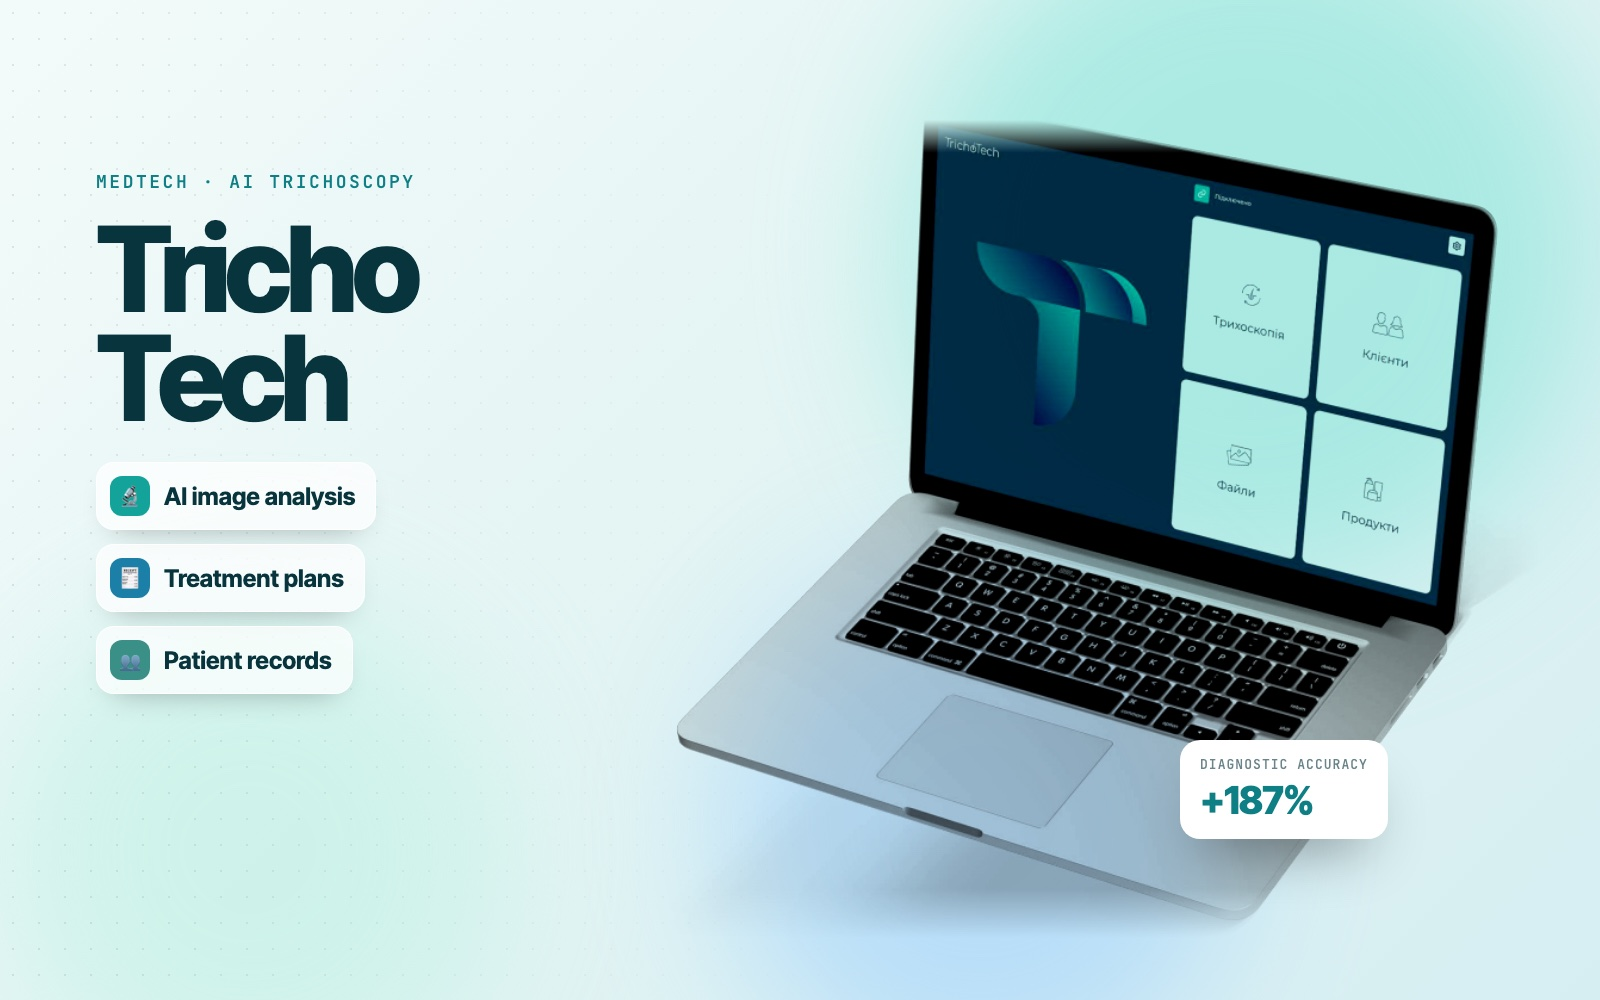
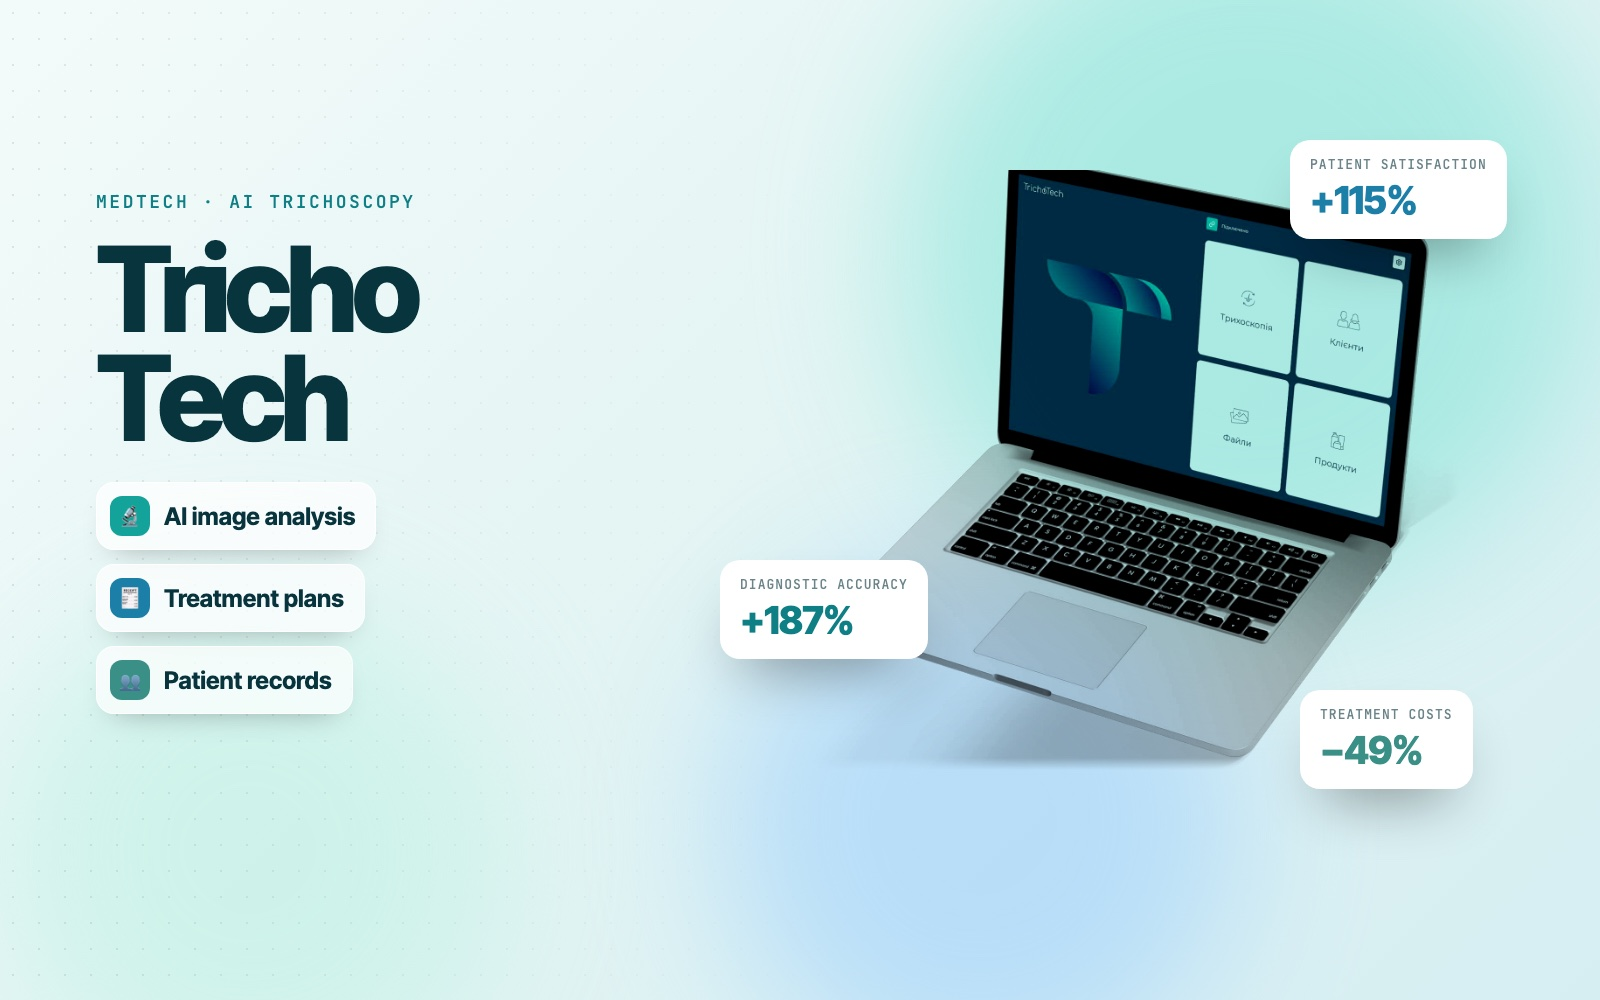
Home: 'How it works' steps instead of duplicate layers, contact/form copy for new model, localized price units; VIP 50 seats + free partnership note; case covers with full laptops and metrics

Changed region(s): [[0.4062, 0.124, 0.9688, 0.93], [0.0625, 0.155, 0.2812, 0.744]]

diff --git a/src/i18n/ua.ts b/src/i18n/ua.ts
@@ -264,7 +264,7 @@ const ua: Dict = {
   ],
   "stepZero": "Крок нуль",
   "sessTitle": "Стратегічна сесія перед стартом",
-  "sessSub": "Перед початком роботи ми аналізуємо вашу ситуацію та формуємо стратегію вашого зростання.",
+  "sessSub": "Vax, наш ШІ-менеджер, відповідає просто тут. Менеджер долучиться до дзвінка й важливих рішень — лише якщо ви захочете.",
   "sessItems": [
     "Визначаємо реальні точки зростання",
     "Формуємо початкову продуктову лінійку",
@@ -272,7 +272,7 @@ const ua: Dict = {
     "Прописуємо можливі сценарії масштабування",
     "Узгоджуємо оптимальний формат співпраці"
   ],
-  "sessNote": "Стратегічна сесія входить у кожен тариф.",
+  "sessNote": "Безкоштовний розбір і план зростання — у кожному запуску.",
   "tiersTitle": "Запускаємо один раз. Далі ведемо все за вас.",
   "tiersSub": "За кілька днів збираємо систему — сайт, ШІ-менеджера і пульт власника, — а потім щомісяця тримаємо її в роботі, відповідаємо клієнтам і ростимо. Ви займаєтесь бізнесом, решта — наше.",
   "labels": {
@@ -411,7 +411,7 @@ const ua: Dict = {
     "title": "Потрібна окрема послуга замість повного тарифу?",
     "body": "Беріть лише те, що потрібно зараз: SMM, рекламу, сайт, застосунок, SEO, дизайн, тексти чи короткі відео. У кожну послугу вбудовано ШІ, ціна — зрозумілим діапазоном.",
     "sub": "Не знаєте, що обрати? Напишіть Vax у чат — за хвилину підкаже потрібне поєднання.",
-    "note": "Точну ціну фіксуємо після безкоштовного дзвінка, коли зрозумілий обсяг. Без сюрпризів потім.",
+    "note": "Точну ціну фіксуємо після безкоштовного розбору в чаті, коли зрозумілий обсяг. Без сюрпризів потім.",
     "items": [
       {
         "name": "SMM",
@@ -559,7 +559,7 @@ const ua: Dict = {
       "a": "Так — по всьому світу, англійською, українською та російською, з будь-якою нішею: місцеві послуги, клініки, інтернет-магазини, SaaS, застосунки."
     }
   ],
-  "finalTitle": "Готові до системного зростання?",
+  "finalTitle": "Розкажіть, що потрібно, — план і ціна за хвилину",
   "submit": "Залишити заявку",
   "ask": "Поставити запитання",
   "footer": "VAXO — DIGITAL-СТУДІЯ ПОВНОГО ЦИКЛУ. ПРАЦЮЄМО ОНЛАЙН ПО ВСЬОМУ СВІТУ.",
@@ -574,7 +574,7 @@ const ua: Dict = {
     "question": "Ваше запитання",
     "send": "Залишити заявку",
     "sendQ": "Надіслати запитання",
-    "success": "Дякуємо. Ми зв’яжемося з вами протягом 24 годин, щоб призначити стратегічну сесію.",
+    "success": "Дякуємо! Менеджер напише вам протягом 24 годин — зазвичай набагато швидше.",
     "again": "Надіслати ще одну заявку",
     "room": "Особистий чат вашого проєкту вже готовий — відкрийте і збережіть посилання:",
     "roomBtn": "Відкрити чат проєкту →",

diff --git a/src/i18n/ru.ts b/src/i18n/ru.ts
@@ -264,7 +264,7 @@ const ru: Dict = {
   ],
   "stepZero": "Шаг ноль",
   "sessTitle": "Стратегическая сессия перед стартом",
-  "sessSub": "Перед началом работы мы анализируем вашу ситуацию и формируем стратегию вашего роста.",
+  "sessSub": "Vax, наш ИИ-менеджер, отвечает прямо здесь. Менеджер подключится к созвону и важным решениям — только если вы захотите.",
   "sessItems": [
     "Определяем реальные точки роста",
     "Формируем начальную продуктовую линейку",
@@ -272,7 +272,7 @@ const ru: Dict = {
     "Прописываем возможные сценарии масштабирования",
     "Согласуем оптимальный формат сотрудничества"
   ],
-  "sessNote": "Стратегическая сессия входит в каждый тариф.",
+  "sessNote": "Бесплатный разбор и план роста — в каждом запуске.",
   "tiersTitle": "Запускаем один раз. Дальше ведём всё за вас.",
   "tiersSub": "За несколько дней собираем систему — сайт, ИИ-менеджера и пульт владельца, — а потом каждый месяц держим её в работе, отвечаем клиентам и растим. Вы занимаетесь бизнесом, остальное — наше.",
   "labels": {
@@ -411,7 +411,7 @@ const ru: Dict = {
     "title": "Нужна отдельная услуга вместо полного тарифа?",
     "body": "Берите только то, что нужно сейчас: SMM, рекламу, сайт, приложение, SEO, дизайн, тексты или короткие видео. В каждую услугу встроен ИИ, цена — понятным диапазоном.",
     "sub": "Не знаете, что выбрать? Напишите Vax в чат — за минуту подскажет нужное сочетание.",
-    "note": "Точную цену фиксируем после бесплатного созвона, когда понятен объём. Без сюрпризов потом.",
+    "note": "Точную цену фиксируем после бесплатного разбора в чате, когда понятен объём. Без сюрпризов потом.",
     "items": [
       {
         "name": "SMM",
@@ -559,7 +559,7 @@ const ru: Dict = {
       "a": "Да — по всему миру, на английском, украинском и русском, с любой нишей: местные услуги, клиники, интернет-магазины, SaaS, приложения."
     }
   ],
-  "finalTitle": "Готовы к системному росту?",
+  "finalTitle": "Расскажите, что нужно, — план и цена за минуту",
   "submit": "Оставить заявку",
   "ask": "Задать вопрос",
   "footer": "VAXO — DIGITAL-СТУДИЯ ПОЛНОГО ЦИКЛА. РАБОТАЕМ ОНЛАЙН ПО ВСЕМУ МИРУ.",
@@ -574,7 +574,7 @@ const ru: Dict = {
     "question": "Ваш вопрос",
     "send": "Оставить заявку",
     "sendQ": "Отправить вопрос",
-    "success": "Спасибо. Мы свяжемся с вами в течение 24 часов, чтобы назначить стратегическую сессию.",
+    "success": "Спасибо! Менеджер напишет вам в течение 24 часов — обычно гораздо быстрее.",
     "again": "Отправить ещё одну заявку",
     "room": "Личный чат вашего проекта уже готов — откройте и сохраните ссылку:",
     "roomBtn": "Открыть чат проекта →",

diff --git a/src/i18n/en.ts b/src/i18n/en.ts
@@ -262,7 +262,7 @@ const en = {
   ],
   "stepZero": "Step zero",
   "sessTitle": "Strategic session before we start",
-  "sessSub": "Before kicking off, we analyse your situation and shape the strategy for your growth.",
+  "sessSub": "Vax, our AI manager, answers right here. A manager joins for calls and important decisions — only if you want.",
   "sessItems": [
     "Identify your real growth points",
     "Shape an initial product line",
@@ -270,7 +270,7 @@ const en = {
     "Map out possible scaling scenarios",
     "Agree on the best format of collaboration"
   ],
-  "sessNote": "The strategic session is included in every tier.",
+  "sessNote": "A free review and a growth plan come with every launch.",
   "tiersTitle": "Launch once. Then we run it for you.",
   "tiersSub": "We build the system in days — site, AI manager, owner command center — and then keep it working, answering and growing every month. You run the business; the rest is ours.",
   "labels": {
@@ -409,7 +409,7 @@ const en = {
     "title": "Need a single service instead of a full tier?",
     "body": "Take just the part you need: SMM, ads, websites, apps, SEO, design, copywriting or short videos. Each comes with AI built in and a clear price range.",
     "sub": "Not sure what you need? Tell Vax in the chat — he’ll suggest the right mix in a minute.",
-    "note": "The exact price is fixed after a free call, once we know the scope. No surprises later.",
+    "note": "The exact price is fixed after a free review in the chat, once the scope is clear. No surprises later.",
     "items": [
       {
         "name": "SMM",
@@ -557,7 +557,7 @@ const en = {
       "a": "Yes — worldwide, in English, Ukrainian and Russian, any niche: local services, clinics, online stores, SaaS, apps."
     }
   ],
-  "finalTitle": "Ready for systemic growth?",
+  "finalTitle": "Tell us what you need — get a plan and a price in a minute",
   "submit": "Submit request",
   "ask": "Ask a question",
   "footer": "VAXO — FULL-CYCLE DIGITAL STUDIO. ONLINE, WORLDWIDE.",
@@ -572,7 +572,7 @@ const en = {
     "question": "Your question",
     "send": "Submit request",
     "sendQ": "Send question",
-    "success": "Thank you. We'll get back to you within 24 hours to schedule the strategic session.",
+    "success": "Thank you! A manager will write to you within 24 hours — usually much sooner.",
     "again": "Send another",
     "room": "Your private project chat is ready — open it and save the link:",
     "roomBtn": "Open my project chat →",

diff --git a/worker/lab.ts b/worker/lab.ts
@@ -15,8 +15,8 @@ const hex = (n: number) => Array.from(crypto.getRandomValues(new Uint8Array(n)),
 const s = (v: unknown, n: number) => (typeof v === 'string' ? v.trim().slice(0, n) : '');
 const LANGS = ['en', 'ru', 'ua'];
 
-/** Founding price for the first 100 paid members, locked while they stay; then the regular price. */
-export const LAB = { founding: 5, regular: 9, foundingSeats: 100 };
+/** Founding price for the first 50 paid members, locked while they stay; then the regular price. */
+export const LAB = { founding: 5, regular: 9, foundingSeats: 50 };
 const DESC = 'INSIDERS Lab (Discord) — 1 month';
 
 type Member = { id: number; token: string; lead_id: number | null; name: string; discord: string; email: string; lang: string; price: number; autopay: number; wallet_id: string | null; card_token: string | null; paid_until: string | null; status: string; last_invoice_id: number | null; notice_for: string | null };
